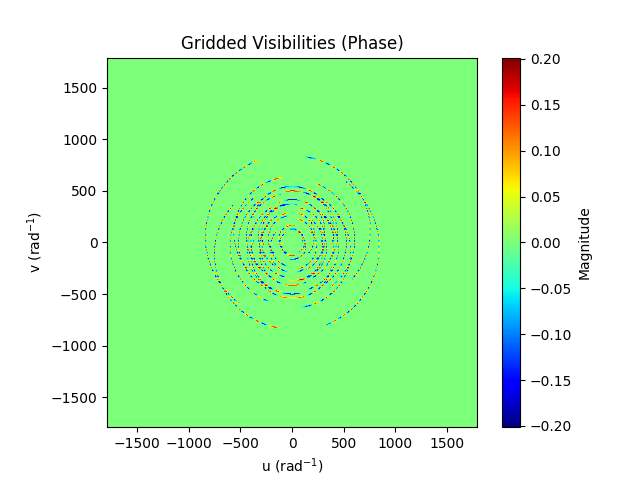
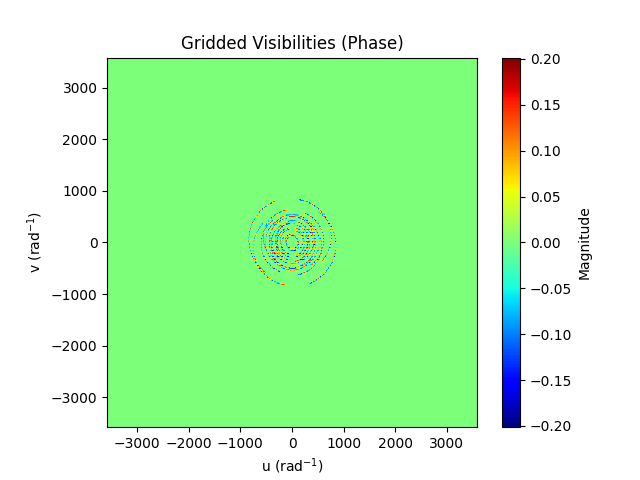
update

diff --git a/assignment2/PartB/simvis.py b/assignment2/PartB/simvis.py
@@ -115,16 +115,16 @@ class SimVis:
         sources = self.skymodel_df[["flux", "l", "m"]].values
         flux, l, m = sources[:, 0], sources[:, 1], sources[:, 2]
 
-        valid = ((0 <= self.scaled_uv[:, 0]) & (self.scaled_uv[:, 0] < self.N) &
-                 (0 <= self.scaled_uv[:, 1]) & (self.scaled_uv[:, 1] < self.N))
-        valid = self.scaled_uv[valid]
+        is_valid = ((0 <= self.scaled_uv[:, 0]) & (self.scaled_uv[:, 0] < self.N) &
+                    (0 <= self.scaled_uv[:, 1]) & (self.scaled_uv[:, 1] < self.N))
 
-        for i, uv_point in enumerate(valid):
-            u, v = uv_point
-            self.gridded_uv[-v, u] = 1
-            self.gridded_vis[-v, u] += np.sum(
-                flux * np.exp(-2 * np.pi * 1j * (l * self.uv[i][0] + m * self.uv[i][1]))
-            )
+        ind = self.scaled_uv[is_valid]
+        uv = self.uv[is_valid][:, np.newaxis, :]
+
+        r, c = -ind[:, 1], ind[:, 0]
+
+        self.gridded_uv[r, c] = 1
+        self.gridded_vis[r, c] += np.sum(flux * np.exp(-2 * np.pi * (l * uv[:, :, 0] + m * uv[:, :, 1]) * 1j), axis=1)
 
     def _get_vis(self, u_range, v_range):
         u, v = np.meshgrid(u_range, v_range[::-1])
